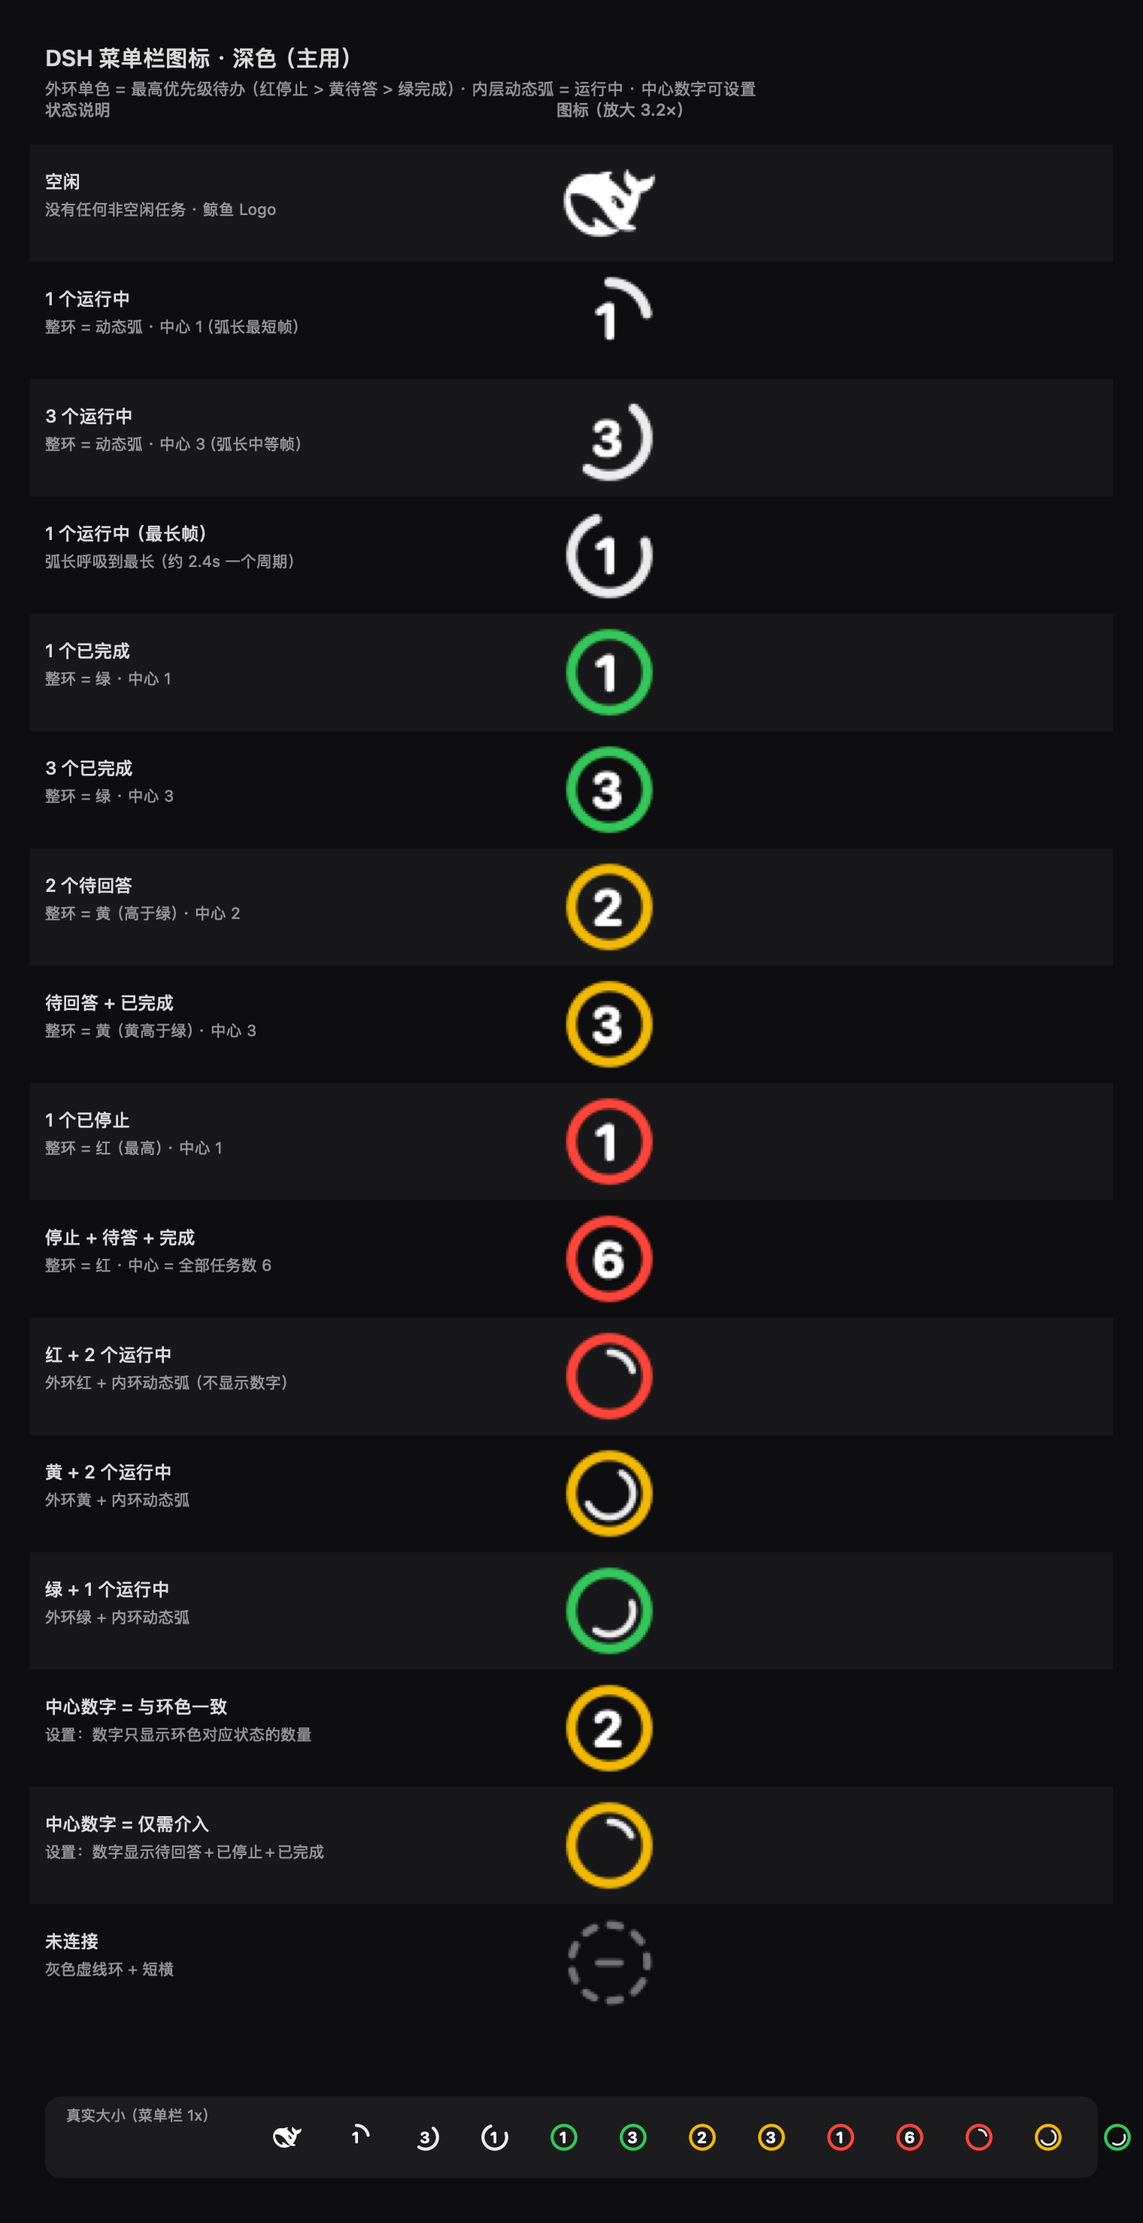
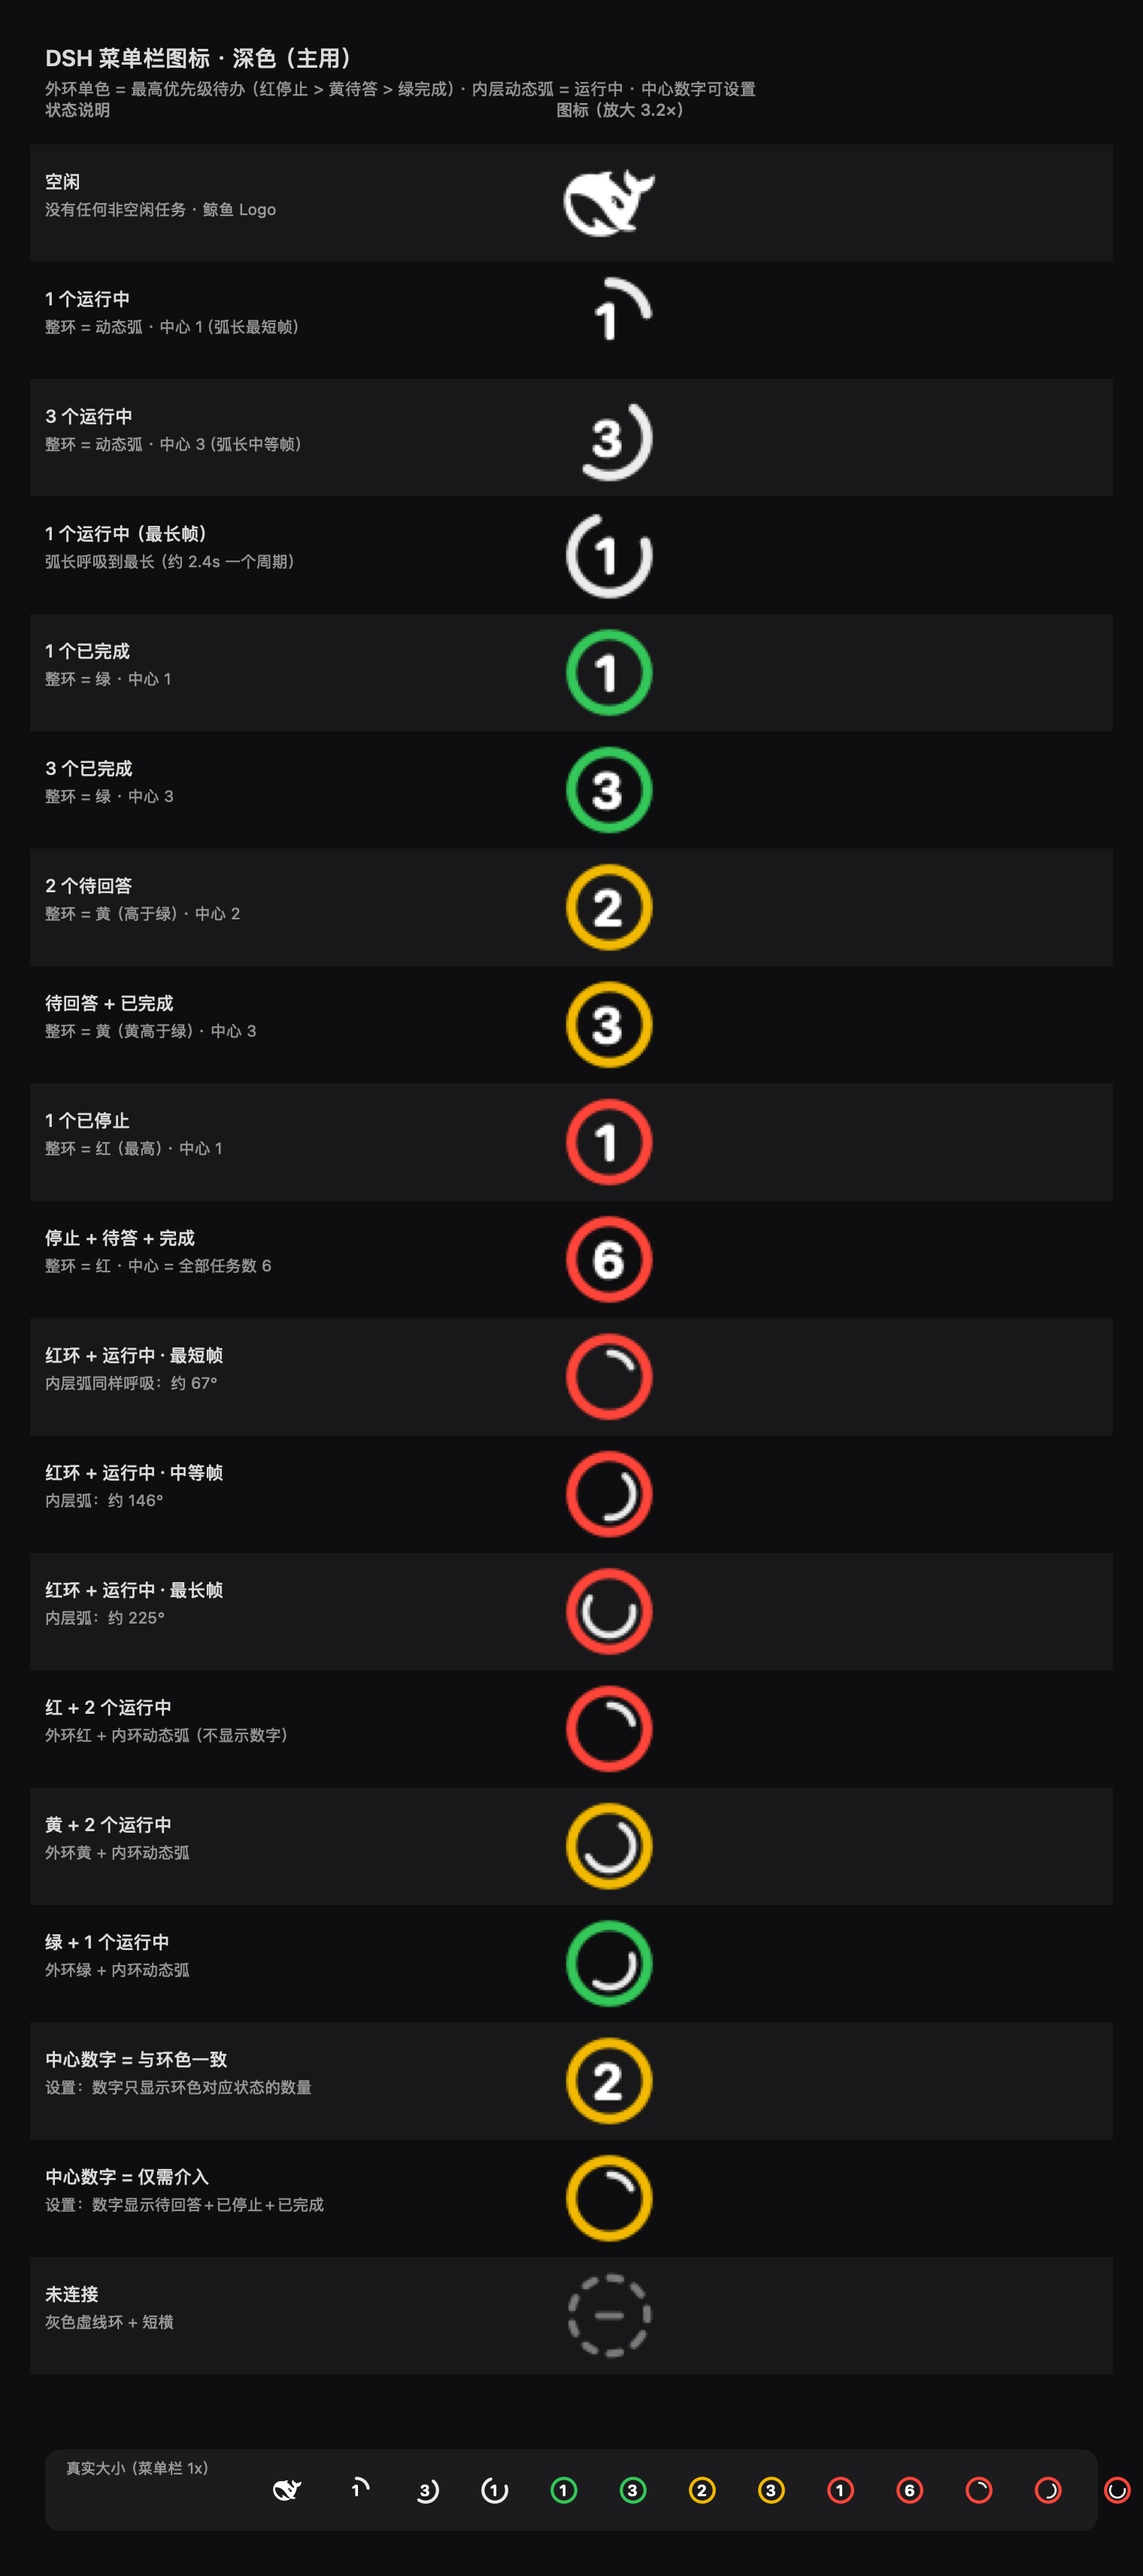
docs(previews): 补充双层环内弧呼吸的三帧示例

diff --git a/app/Sources/DSHStatusBar/PreviewRenderer.swift b/app/Sources/DSHStatusBar/PreviewRenderer.swift
@@ -56,6 +56,12 @@ enum PreviewRenderer {
         ("待回答 + 已完成", "整环 = 黄（黄高于绿）· 中心 3", IconModel(statuses: [.waiting, .completed, .completed])),
         ("1 个已停止", "整环 = 红（最高）· 中心 1", IconModel(statuses: [.stopped])),
         ("停止 + 待答 + 完成", "整环 = 红 · 中心 = 全部任务数 6", IconModel(statuses: [.stopped, .waiting, .waiting, .completed, .completed, .completed])),
+        ("红环 + 运行中·最短帧", "内层弧同样呼吸：约 67°",
+         IconModel(statuses: [.stopped, .running, .running], animationPhase: 0, animationTime: 0)),
+        ("红环 + 运行中·中等帧", "内层弧：约 146°",
+         IconModel(statuses: [.stopped, .running, .running], animationPhase: 40, animationTime: 0.6)),
+        ("红环 + 运行中·最长帧", "内层弧：约 225°",
+         IconModel(statuses: [.stopped, .running, .running], animationPhase: 80, animationTime: 1.2)),
         ("红 + 2 个运行中", "外环红 + 内环动态弧（不显示数字）",
          IconModel(statuses: [.stopped, .running, .running], animationPhase: 0, animationTime: 0.2)),
         ("黄 + 2 个运行中", "外环黄 + 内环动态弧",
